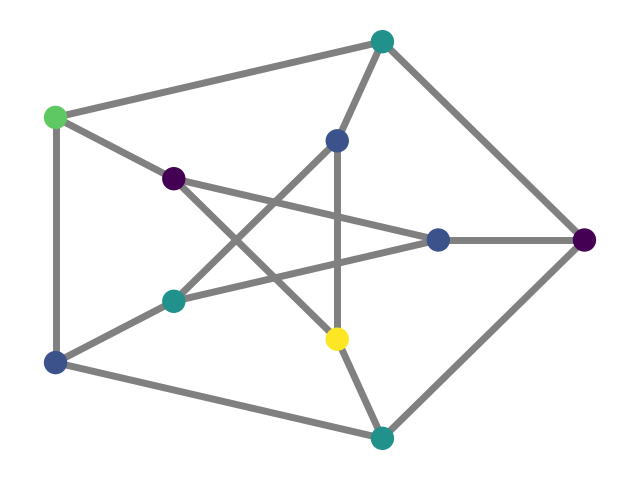
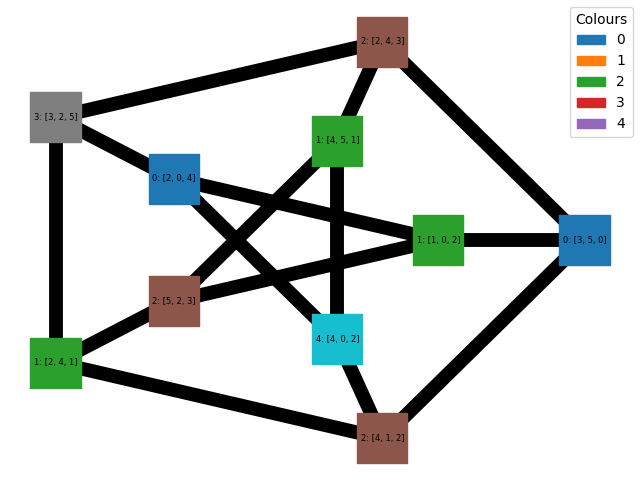
Visualise list assignment in node list colouring example.

Changed region(s): [[0.0312, 0.0312, 0.9688, 0.9688], [0.875, 0.0312, 1.0, 0.2812]]

diff --git a/src/petersen-shell-node.py b/src/petersen-shell-node.py
@@ -1,5 +1,6 @@
 import networkx as nx
 import matplotlib.pyplot as plt
+import matplotlib.patches as mpatches
 
 import listcolouring
 
@@ -10,11 +11,26 @@ G = list_init_node(G, range(0, 6), 3, 0)
 
 G = greedy_list_node_colouring(G)
 
-colors = nx.get_node_attributes(G, 'colour').values()
-
-options = {'with_labels': False, "edge_cmap": plt.cm.tab10}
-
 G_layout = nx.shell_layout(G, nlist = [range(5, 10), range(5)], rotate = 0.)
-nx.draw(G, G_layout, edge_color = "grey", node_color = list(colors), width = 5, node_size = 250, **options)
+node_labels = dict([(n, str(d['colour']) + ': ' + str(d['permissible'])) for n, d in G.nodes(data = True)])
+
+node_colors = set(nx.get_node_attributes(G, 'colour').values())
+
+patches = [mpatches.Patch(color = plt.cm.tab10(i), label = f'{i}') for i in node_colors]
+
+nx.draw(G,
+               pos = G_layout,
+        edge_color = "black",
+        node_color = list(nx.get_node_attributes(G, 'colour').values()),
+        node_shape = 's',
+             width = 10,
+         node_size = 1300,
+              cmap = plt.cm.tab10,
+            labels = node_labels,
+         font_size = 6,
+       with_labels = True
+)
+
+plt.legend(handles = patches, title = "Colours", bbox_to_anchor = (1, 1))
 
 plt.savefig("png/petersen-shell-node.png", format = "PNG")
